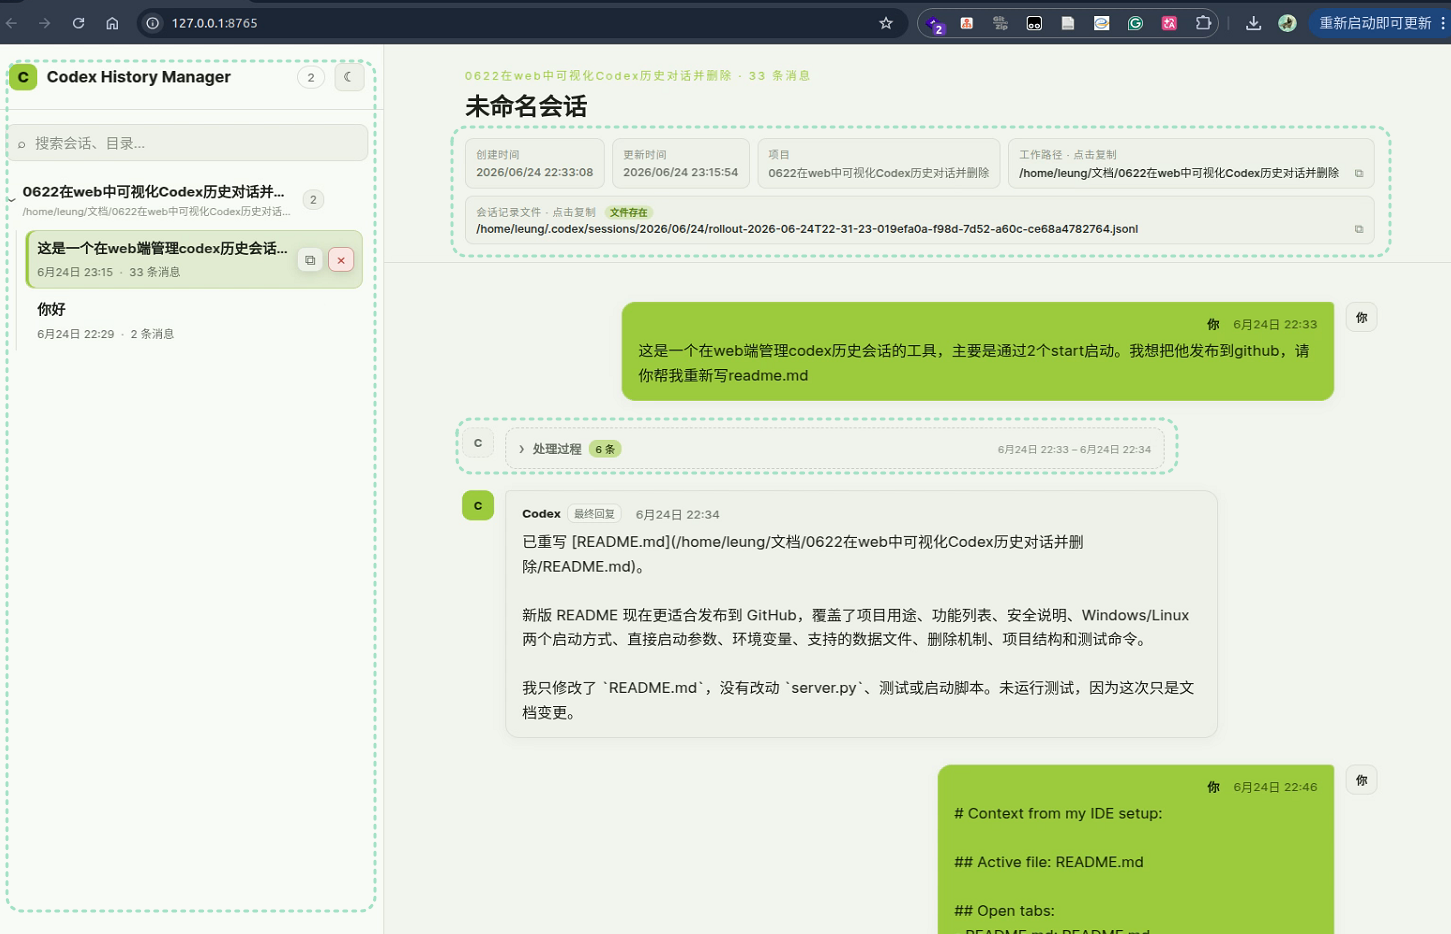
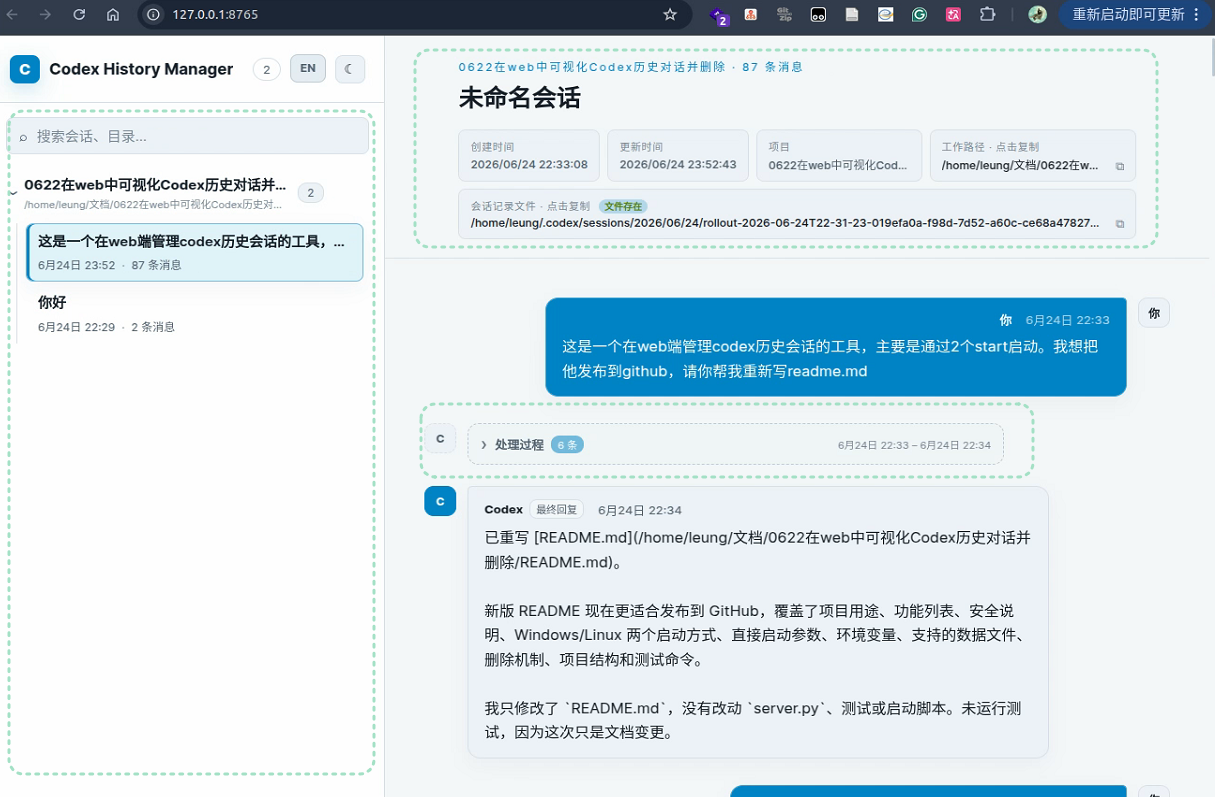
Update documentation and screenshots

Changed region(s): [[0.0, 0.0, 1.0, 1.0], [0.0, 0.7829, 0.2741, 0.9937]]

diff --git a/README.en.md b/README.en.md
@@ -4,7 +4,7 @@
 
 A local web manager for Codex conversation history. It starts a small web service on your machine, then lets you search, inspect, group, and delete Codex sessions from the browser instead of digging through the `.codex` directory by hand.
 
-It lists project groups, temporary sessions, linked projects, session cache paths, creation time, update time, and message counts. Before deletion, it generates a cleanup plan and requires a second confirmation to reduce accidental deletes.
+It lists project groups, temporary sessions, archived sessions, linked projects, session cache paths, creation time, update time, and message counts. Before deletion, it generates a cleanup plan and requires a second confirmation to reduce accidental deletes.
 
 The project uses only the Python standard library and native frontend code. No extra dependencies are required.
 
@@ -12,16 +12,16 @@ The project uses only the Python standard library and native frontend code. No e
 
 Session list and grouped view:
 
-![Session list and grouped view](doc/images/session-list.png)
+![Session list and grouped view](doc/images/session-list-en.png)
 
 Second confirmation before deletion:
 
-<img src="doc/images/delete-confirm.png" alt="Delete confirmation dialog" width="60%">
+<img src="doc/images/delete-confirm-en.png" alt="Delete confirmation dialog" width="50%">
 
 ## Features
 
 - View local Codex conversation history in the browser
-- Group sessions by project directory, with temporary sessions separated
+- Group sessions by project directory, with temporary and archived sessions separated
 - Search by session title, working directory, and first user message
 - Inspect linked project, session file path, creation time, update time, and message count
 - View user messages, Codex progress, final answers, and legacy assistant replies
@@ -29,23 +29,6 @@ Second confirmation before deletion:
 - Switch between dark and light themes
 - Delete a single session or a whole group
 - Generate a deletion plan and require confirmation before deleting
-
-## Safety Notes
-
-By default, the service listens only on `127.0.0.1`, so it is intended for local use on your own machine. It does not upload Codex history and does not depend on any remote service.
-
-Deletion modifies local Codex data, including session `jsonl` files, `state_5.sqlite`, `logs_2.sqlite`, `goals_1.sqlite`, `session_index.jsonl`, global state files, and related shell snapshots. Deletion is irreversible. Back up your `.codex` directory before using deletion for the first time.
-
-Deleting a session does not delete your project directory or any source files inside it.
-
-## Correct Ways to Delete Codex Sessions
-
-Different Codex clients may store and manage sessions differently. Prefer the deletion flow built into the client you used. This tool is best treated as a visual local manager and supplemental cleanup tool.
-
-- **Codex CLI**: use `/delete` in the current session to delete it and exit, or run `codex delete` in a terminal to delete a saved session by ID or name. Use `/archive` or `codex archive` when you only want to hide a transcript from active lists.
-- **Windows Desktop / Codex app**: archive the thread first, then delete it from archived threads. Removing a project does not delete its history; a thread may remain even after a project directory or worktree is removed.
-- **PyCharm / JetBrains Codex plugin**: prefer deleting from the plugin's own session list, such as right-clicking the session name. Treat these IDE sessions as managed by the plugin rather than assuming they are removed from external CLI or desktop history.
-- **VS Code Codex sessions**: if the extension does not provide an explicit delete action, use the external Codex CLI, for example `/delete` for the current session or `codex delete <SESSION_ID>` for a specific saved session.
 
 ## Requirements
 
@@ -146,8 +129,18 @@ The current implementation reads and cleans these local Codex files:
 - `.codex-global-state.json`
 - `.codex-global-state.json.bak`
 - `shell_snapshots/`
+- `archived_sessions/`
 
 If a future Codex release changes the local data structure, deletion may be refused with an explanation in the UI.
+
+## Correct Ways to Delete Codex Sessions
+
+Prefer the deletion flow built into the Codex client you used. This tool is a visual local manager and supplemental cleanup tool, useful when you want to browse, verify paths, or organize multiple local sessions in one place.
+
+- **Codex CLI**: use `/delete` in the current session to delete it and exit, or run `codex delete` in a terminal to delete a saved session by ID or name. Use `/archive` or `codex archive` when you only want to hide a transcript from active lists.
+- **Windows Desktop / Codex app**: archive the thread first, then delete it from archived threads. Removing a project does not delete its history; a thread may remain even after a project directory or worktree is removed.
+- **PyCharm / JetBrains Codex plugin**: prefer deleting from the plugin's own session list, such as right-clicking the session name. Treat these IDE sessions as managed by the plugin rather than assuming they are removed from external CLI or desktop history.
+- **VS Code Codex sessions**: if the extension does not provide an explicit delete action, use the external Codex CLI, for example `/delete` for the current session or `codex delete <SESSION_ID>` for a specific saved session.
 
 ## Deletion Flow
 
@@ -167,6 +160,14 @@ Backend safeguards include:
 - Check whether the session file is still growing
 - Validate JSON storage files before rewriting them
 - Scan for remaining references after deletion
+
+## Safety Notes
+
+By default, the service listens only on `127.0.0.1`, so it is intended for local use on your own machine. It does not upload Codex history and does not depend on any remote service.
+
+Deletion modifies local Codex data, including session `jsonl` files, `state_5.sqlite`, `logs_2.sqlite`, `goals_1.sqlite`, `session_index.jsonl`, global state files, and related shell snapshots. Deletion is irreversible. Back up your `.codex` directory before using deletion for the first time.
+
+Deleting a session does not delete your project directory or any source files inside it.
 
 ## Project Structure
 
@@ -189,6 +190,10 @@ Backend safeguards include:
 ```bash
 python -m unittest discover -s tests -v
 ```
+
+## License
+
+[MIT](LICENSE)
 
 ## Credits
 

diff --git a/README.md b/README.md
@@ -4,7 +4,7 @@
 
 一个本地运行的 Codex 历史会话 Web 管理工具。启动后会在本机开启一个 Web 服务，你可以直接在浏览器里搜索、查看、分组和删除 Codex 历史会话，操作路径比手动翻 `.codex` 目录更清晰。
 
-它会详细列出每个会话，包括项目分组、临时会话、关联项目、会话缓存地址、创建时间、更新时间和消息数量。删除会话时会先生成清理计划，并要求二次确认，尽量避免手抖误删。
+它会详细列出每个会话，包括项目分组、临时会话、归档会话、关联项目、会话缓存地址、创建时间、更新时间和消息数量。删除会话时会先生成清理计划，并要求二次确认，尽量避免手抖误删。
 
 项目只使用 Python 标准库和原生前端，不需要安装额外依赖。
 
@@ -16,12 +16,12 @@
 
 删除前的二次确认：
 
-<img src="doc/images/delete-confirm.png" alt="删除确认弹窗" width="60%">
+<img src="doc/images/delete-confirm.png" alt="删除确认弹窗" width="50%">
 
 ## 功能
 
 - 在浏览器中查看本机 Codex 历史会话
-- 按项目目录自动分组，临时会话单独归类
+- 按项目目录自动分组，临时会话和归档会话单独归类
 - 搜索会话标题、工作目录和首条用户消息
 - 查看关联项目、会话文件路径、创建时间、更新时间和消息数量
 - 展示用户消息、Codex 处理过程、最终回复和旧版回复
@@ -29,23 +29,6 @@
 - 深色 / 浅色主题切换
 - 删除单个会话或整个分组的会话
 - 删除前生成清理计划，并要求输入确认码
-
-## 安全说明
-
-这个工具默认只监听 `127.0.0.1`，适合在自己的电脑上本地使用。它不会主动上传 Codex 历史数据，也不依赖任何远程服务。
-
-删除功能会修改 Codex 的本地数据文件，包括会话 `jsonl`、`state_5.sqlite`、`logs_2.sqlite`、`goals_1.sqlite`、`session_index.jsonl`、全局状态文件和相关 shell snapshot。删除操作不可撤销，建议在首次使用删除功能前备份 `.codex` 目录。
-
-删除会话不会删除你的项目目录，也不会删除项目里的代码文件。
-
-## 正确删除 Codex 会话
-
-不同 Codex 客户端的会话来源和删除入口不完全相同。优先使用客户端自带的删除方式；本工具更适合作为本地历史的可视化管理和补充清理工具。
-
-- **Codex CLI**：在当前会话中可使用 `/delete` 删除当前会话并退出；也可以在终端使用 `codex delete` 按会话 ID 或名称删除历史会话。只想隐藏而不删除 transcript 时，使用 `/archive` 或 `codex archive`。
-- **Windows Desktop / Codex app**：先在桌面端归档，再从归档会话中删除。只移除项目不会删除历史会话；项目目录或 worktree 被移除后，线程仍可能保留在历史中。
-- **PyCharm / JetBrains 插件中的 Codex**：优先在插件自己的会话列表中右键会话名称删除。这类 IDE 内会话应按插件入口管理，不要假定它会同步删除外部 CLI 或桌面端历史。
-- **VS Code 中的 Codex 会话**：如果扩展内没有明确删除入口，使用外部 Codex CLI 删除对应会话，例如 `/delete` 当前会话，或通过 `codex delete <SESSION_ID>` 删除指定历史会话。
 
 ## 运行环境
 
@@ -148,8 +131,18 @@ $env:PORT="8765"
 - `.codex-global-state.json`
 - `.codex-global-state.json.bak`
 - `shell_snapshots/`
+- `archived_sessions/`
 
 如果未来 Codex 修改本地数据结构，删除功能可能会拒绝执行，并在页面上显示原因。
+
+## 正确删除 Codex 会话
+
+建议优先使用 Codex 各客户端自带的删除入口来管理历史会话。本工具提供的是更直观的本地可视化管理和补充清理能力，适合在你需要集中浏览、核对路径或批量整理时使用。
+
+- **Codex CLI**：在当前会话中可使用 `/delete` 删除当前会话并退出；也可以在终端使用 `codex delete` 按会话 ID 或名称删除历史会话。只想隐藏而不删除 transcript 时，使用 `/archive` 或 `codex archive`。
+- **Windows Desktop / Codex app**：先在桌面端归档，再从归档会话中删除。只移除项目不会删除历史会话；项目目录或 worktree 被移除后，线程仍可能保留在历史中。
+- **PyCharm / JetBrains 插件中的 Codex**：优先在插件自己的会话列表中右键会话名称删除。这类 IDE 内会话应按插件入口管理，不要假定它会同步删除外部 CLI 或桌面端历史。
+- **VS Code 中的 Codex 会话**：如果扩展内没有明确删除入口，使用外部 Codex CLI 删除对应会话，例如 `/delete` 当前会话，或通过 `codex delete <SESSION_ID>` 删除指定历史会话。
 
 ## 删除机制
 
@@ -169,6 +162,14 @@ purge-selected
 - 检查会话文件是否仍在增长
 - 校验 JSON 存储文件可解析
 - 删除后再次扫描残留引用
+
+## 安全说明
+
+这个工具默认只监听 `127.0.0.1`，适合在自己的电脑上本地使用。它不会主动上传 Codex 历史数据，也不依赖任何远程服务。
+
+删除功能会修改 Codex 的本地数据文件，包括会话 `jsonl`、`state_5.sqlite`、`logs_2.sqlite`、`goals_1.sqlite`、`session_index.jsonl`、全局状态文件和相关 shell snapshot。删除操作不可撤销，建议在首次使用删除功能前备份 `.codex` 目录。
+
+删除会话不会删除你的项目目录，也不会删除项目里的代码文件。
 
 ## 项目结构
 
@@ -192,9 +193,12 @@ purge-selected
 python -m unittest discover -s tests -v
 ```
 
+## 许可证
+
+[MIT](LICENSE)
+
 ## 鸣谢
 
 感谢 [liuyoumi/codex-history](https://github.com/liuyoumi/codex-history)。本项目的完整删除思路和风险识别参考了该项目的删除逻辑。
 
 本项目的代码、文档和发布说明均由 Codex 生成，并在本地测试与人工审阅后整理发布。
-